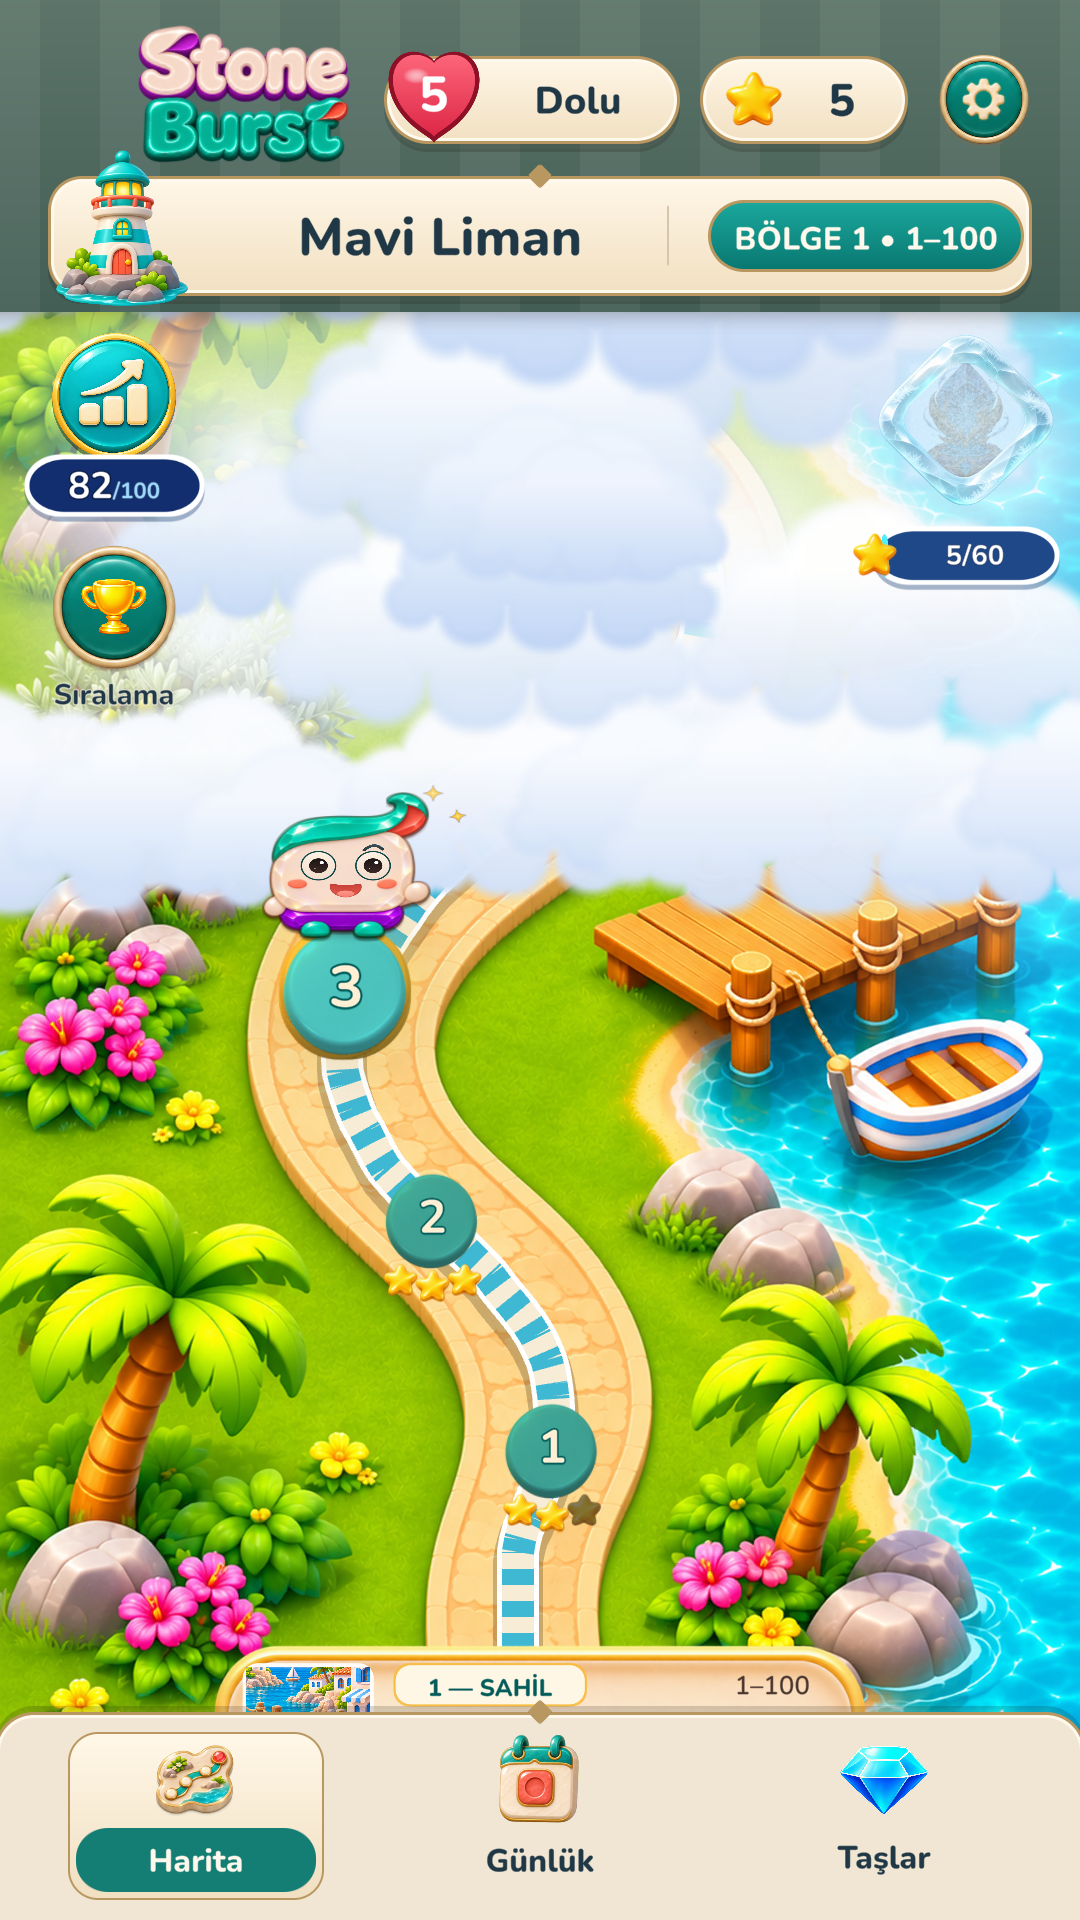
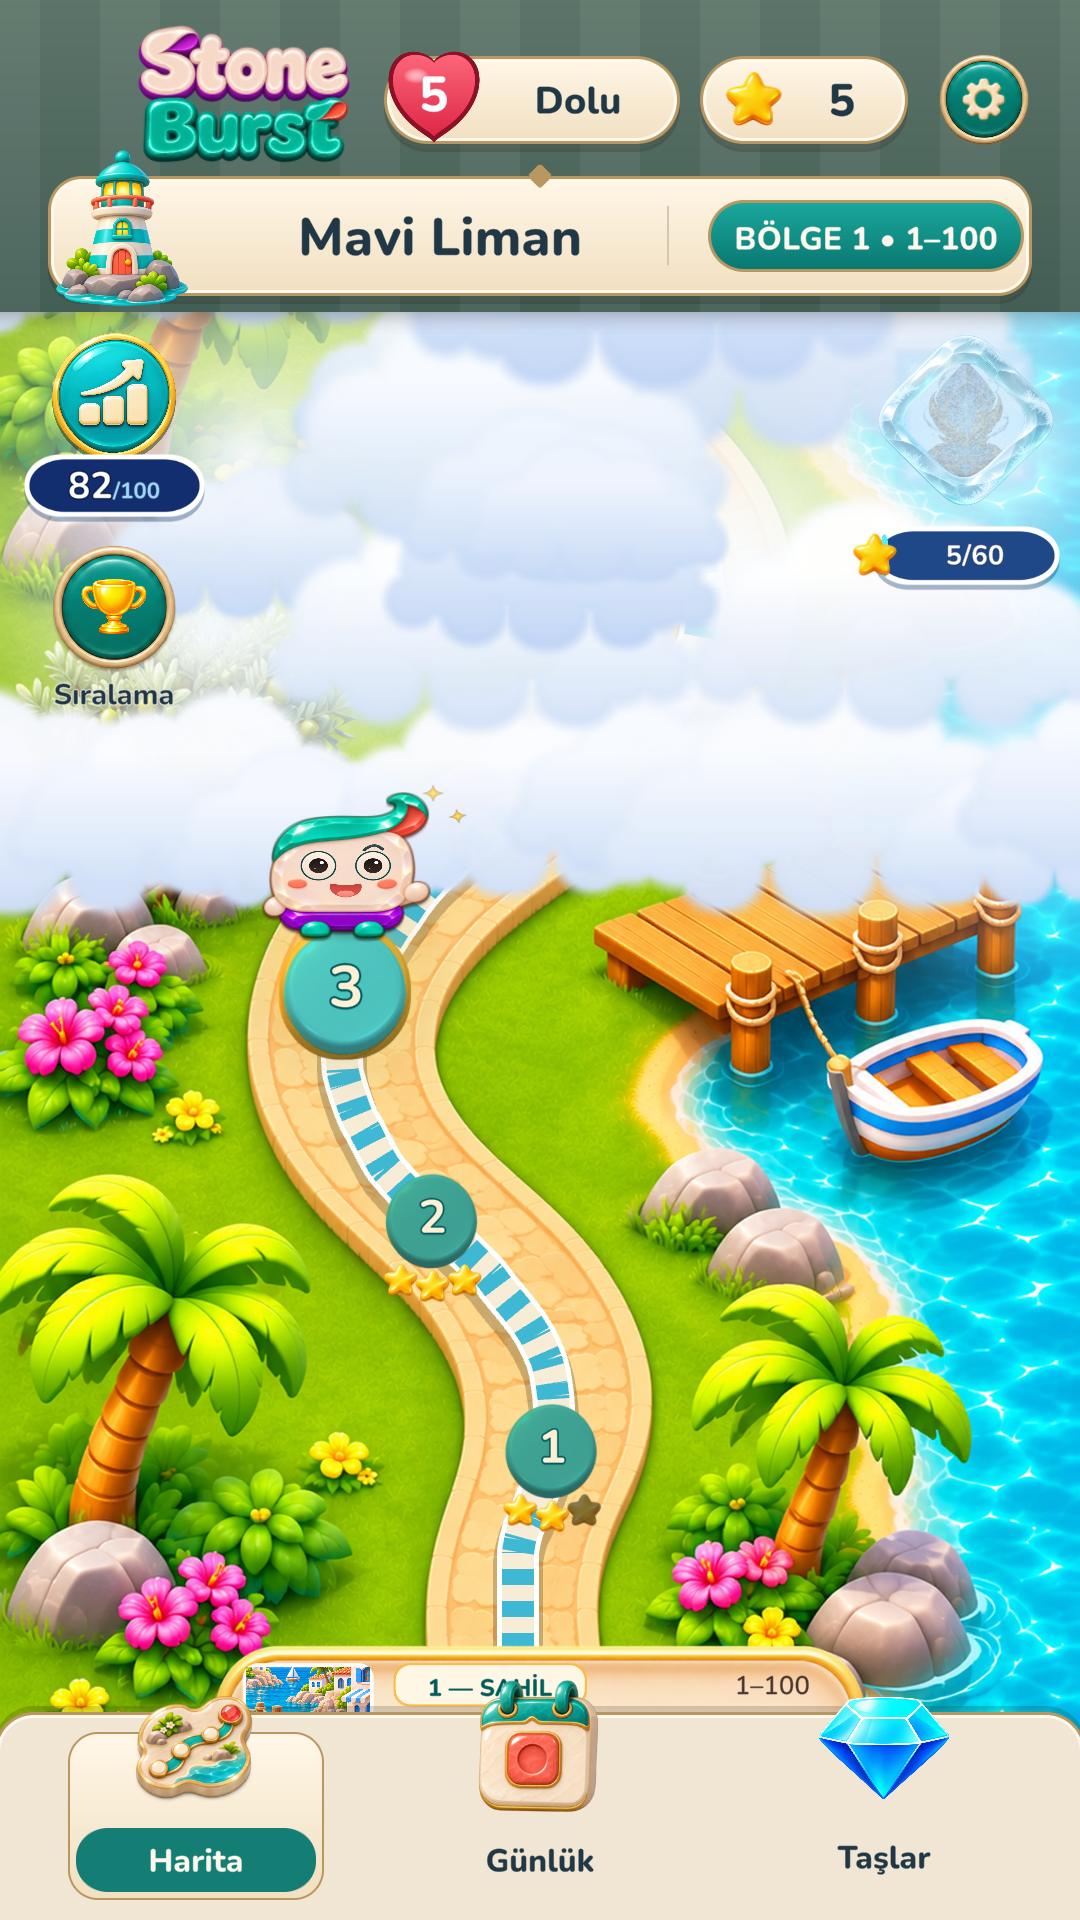
vr1 P1: menü ikonları büyük, üst kenardan taşıyor (prototip anahtarı)

Changed region(s): [[0.4278, 0.875, 0.55, 0.9688], [0.1222, 0.875, 0.2444, 0.9688], [0.7639, 0.875, 0.8861, 0.9688]]

diff --git a/Assets/KatKat/Scripts/UI/MenuView.Ui3.cs b/Assets/KatKat/Scripts/UI/MenuView.Ui3.cs
@@ -209,7 +209,15 @@ namespace KatKat.UI
             // Simge (104, 8, 88, 88) → merkez öğe üstünden 52 aşağı.
             var ic = Decor("Icon", hit.transform, it.Icon);
             ic.preserveAspect = true;
-            UiFactory.Place(ic.rectTransform, new Vector2(0.5f, 1f), new Vector2(0f, -52f), Vr1Proto.On && it.Icon != null && (it.Icon == Vr1Proto.NavMap || it.Icon == Vr1Proto.NavDaily) ? new Vector2(112f, 100f) : new Vector2(88f, 88f)); // vr1 aday ikonlarında saydam pay var
+            if (Vr1Proto.On)
+            {
+                // vr1 prototipi (kullanıcı, 2026-11-11: "iconlar büyük olsun ve alanı da taşsınlar"): ikon menünün üst
+                // kenarından ~40 birim taşar; yazı yerinde kalır. Aday PNG'lerde saydam pay olduğu için kutuları daha büyük.
+                bool cand = it.Icon != null && (it.Icon == Vr1Proto.NavMap || it.Icon == Vr1Proto.NavDaily);
+                UiFactory.Place(ic.rectTransform, new Vector2(0.5f, 1f), new Vector2(0f, -20f), cand ? new Vector2(168f, 150f) : new Vector2(132f, 132f));
+                ic.transform.SetAsLastSibling();
+            }
+            else UiFactory.Place(ic.rectTransform, new Vector2(0.5f, 1f), new Vector2(0f, -52f), new Vector2(88f, 88f));
             // Yazı (16, 108, 264, 48) nav 32/800; seçili kapsül (28, 100, 240, 64) tabSelected, yazı onTeal.
             if (it.On)
             {

diff --git a/docs/vr1/P1_TESLIM_RAPORU.md b/docs/vr1/P1_TESLIM_RAPORU.md
@@ -69,7 +69,7 @@ powershell -ExecutionPolicy Bypass -File tools/unity.ps1 capture-vr1-p1
 
 ### İkonlar (04)
 - Alt menüde Harita ve Günlük için paketteki adaylar kullanıldı (`Resources/Vr1/nav-map.png`, `nav-daily.png`). Günlük ikonu güneşsiz (v2, beğenilen).
-- Saydam pay nedeniyle bu iki ikonun kutusu 112×100 (diğerleri 88).
+- Kullanıcı isteğiyle (2026-11-11: "iconlar büyük olsun ve alanı da taşsınlar") prototipte üç ikon da büyük ve menünün üst kenarından yaklaşık 40 birim taşıyor. Harita ve Günlük 168×150 (saydam pay nedeniyle), Taşlar 132×132; yazılar yerinde. Anahtar kapalıyken 88×88.
 - Taşlar, ZPE ve Sıralama ikonlarına dokunulmadı.
 
 **İçe aktarma (`Editor/Vr1AssetImporter.cs`):**
